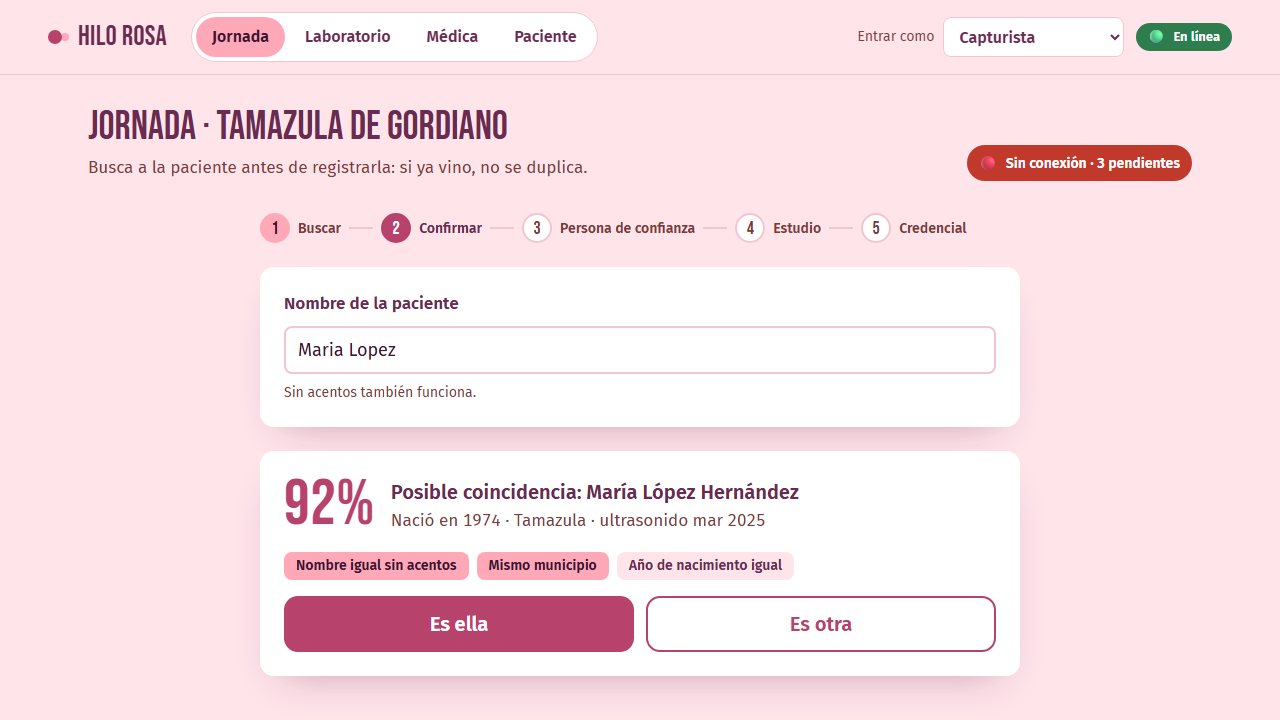
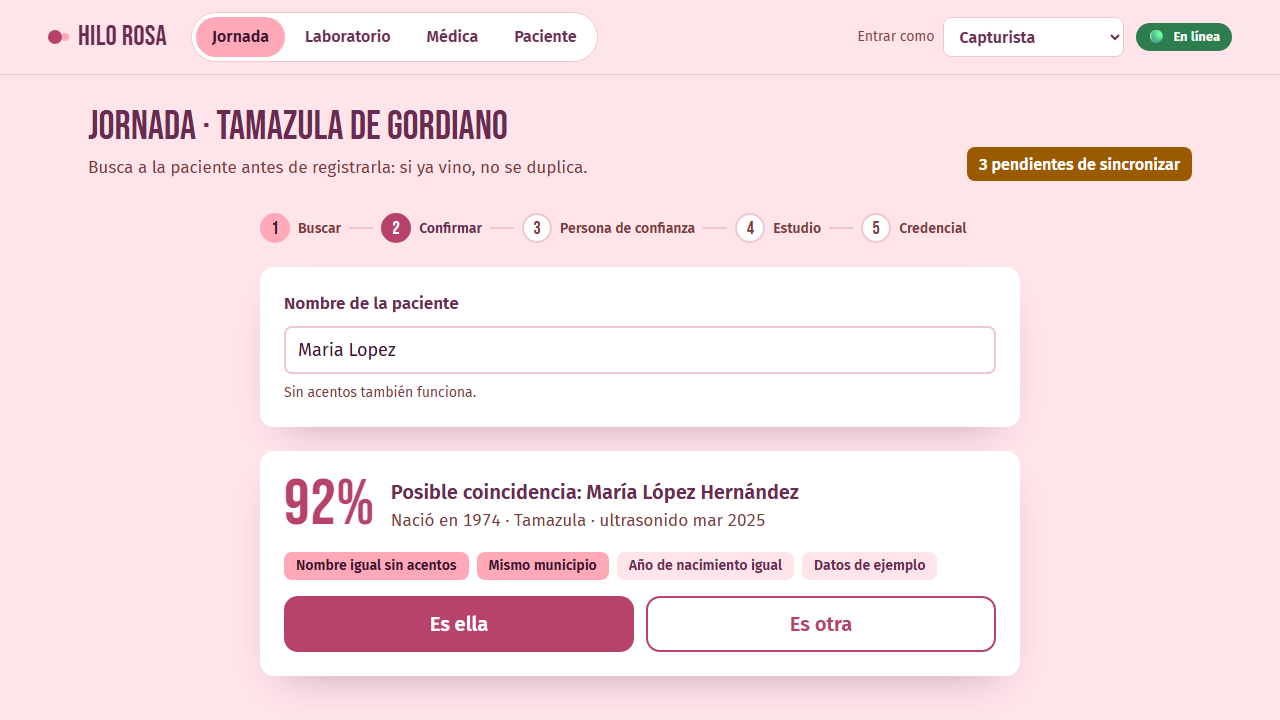
HR-002: critic fixes - warn contrast, stacked table at 390, one connection badge, sample-data labels

Changed region(s): [[0.75, 0.1833, 0.9375, 0.275], [0.625, 0.7639, 0.75, 0.825]]

diff --git a/web/src/lib/ui/locked/JornadaLocked.tsx b/web/src/lib/ui/locked/JornadaLocked.tsx
@@ -1,7 +1,6 @@
 // Locked screen 2 (recipe: flow). The reference HR-007 (jornada) and the acceso screen copy.
 // Static demo data from IDEA.md §3-4 (ficticia); the real feature replaces this at /jornada.
 import { Button, Card, Chip } from "../primitives";
-import { ConnectionBadge } from "../ConnectionBadge";
 import { Field } from "../Field";
 import { Stepper } from "../Stepper";
 import { PageHeader, PageLayout } from "../shell";
@@ -14,7 +13,7 @@ export function JornadaLocked() {
         <PageHeader
           title="Jornada · Tamazula de Gordiano"
           lede="Busca a la paciente antes de registrarla: si ya vino, no se duplica."
-          action={<ConnectionBadge online={false} pending={3} />}
+          action={<Chip tone="warn" size="md">3 pendientes de sincronizar</Chip>}
         />
       }
     >
@@ -35,6 +34,7 @@ export function JornadaLocked() {
             <Chip tone="brand">Nombre igual sin acentos</Chip>
             <Chip tone="brand">Mismo municipio</Chip>
             <Chip>Año de nacimiento igual</Chip>
+            <Chip tone="neutral">Datos de ejemplo</Chip>
           </div>
           <div className="hr-match-actions">
             <Button size="lg">Es ella</Button>

diff --git a/web/src/index.css b/web/src/index.css
@@ -14,7 +14,7 @@
   --brand: #ffa9b8;
   --line: #f0c6d0;
   --ok: #2e7d4f;
-  --warn: #b26a00;
+  --warn: #9a5b00;
   --bad: #c0392b;
   --ok-ink: #ffffff;
   --warn-ink: #ffffff;
@@ -262,4 +262,14 @@ a { color: var(--accent); }
   .hr-landing-steps h2 { font-size: 38px; }
   .hr-landing-steps dl > div { grid-template-columns: 1fr; gap: var(--sp-1); }
   .hr-match-score { font-size: 48px; }
+}
+
+@media (max-width: 600px) {
+  .hr-table thead { display: none; }
+  .hr-table, .hr-table tbody, .hr-table tr, .hr-table td { display: block; width: 100%; }
+  .hr-table tr { display: grid; grid-template-columns: 1fr auto; gap: var(--sp-1) var(--sp-3); padding: var(--sp-3) 0; border-bottom: 1px solid var(--line); }
+  .hr-table td { border: 0; padding: 0; width: auto; }
+  .hr-table td:first-child { grid-column: 1 / -1; font-weight: 600; }
+  .hr-step:not([data-state="current"]) { font-size: 0; gap: 0; }
+  .hr-step + .hr-step::before { width: 14px; margin-right: var(--sp-1); }
 }

diff --git a/web/DESIGN.md b/web/DESIGN.md
@@ -32,7 +32,7 @@
 | `--accent` | `#B7426C` | the primary action and the brand moment, nothing else |
 | `--accent-ink` | `#FFFFFF` | text on the accent (5.3:1) |
 | `--brand` | `#FFA9B8` | EIRA pink: fills, rules, selected pills; never text |
-| `--ok` / `--warn` / `--bad` | `#2E7D4F` / `#B26A00` / `#C0392B` | data states only (en línea, pendiente, sin conexión / alta prioridad) |
+| `--ok` / `--warn` / `--bad` | `#2E7D4F` / `#9A5B00` / `#C0392B` | data states only (en línea, pendiente, sin conexión / alta prioridad) |
 | `--ok-ink` / `--warn-ink` / `--bad-ink` | `#FFFFFF` / `#FFFFFF` / `#FFFFFF` | text on each state color (≥ 4.5:1) |
 Disabled: a primary button turns `--line` fill (`#F0C6D0`) with `--text-2` text and no shadow; never the accent at low opacity.
 
